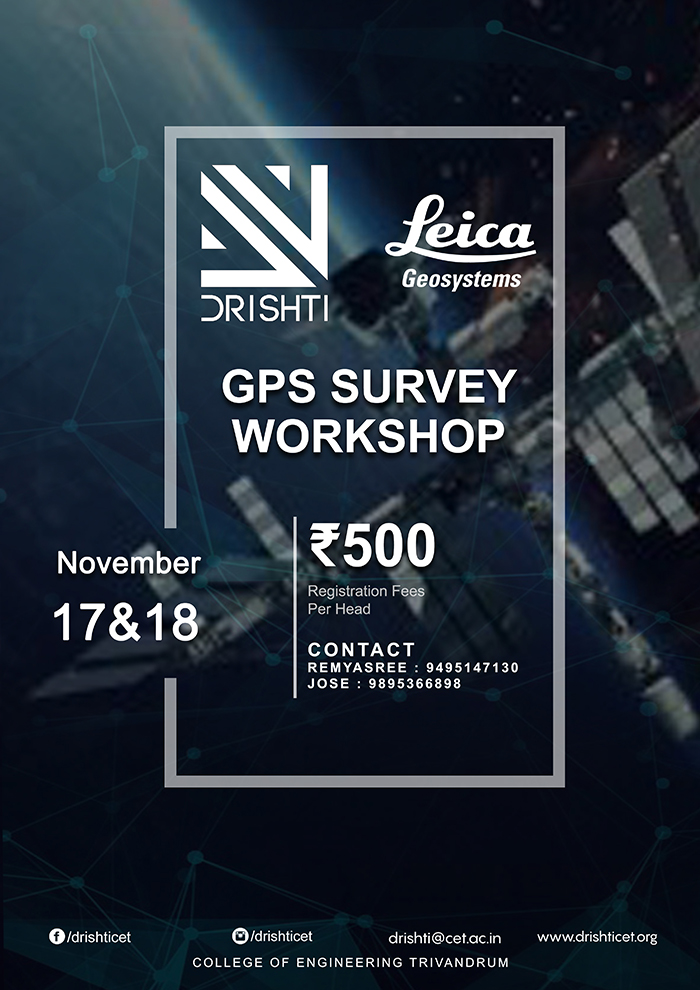
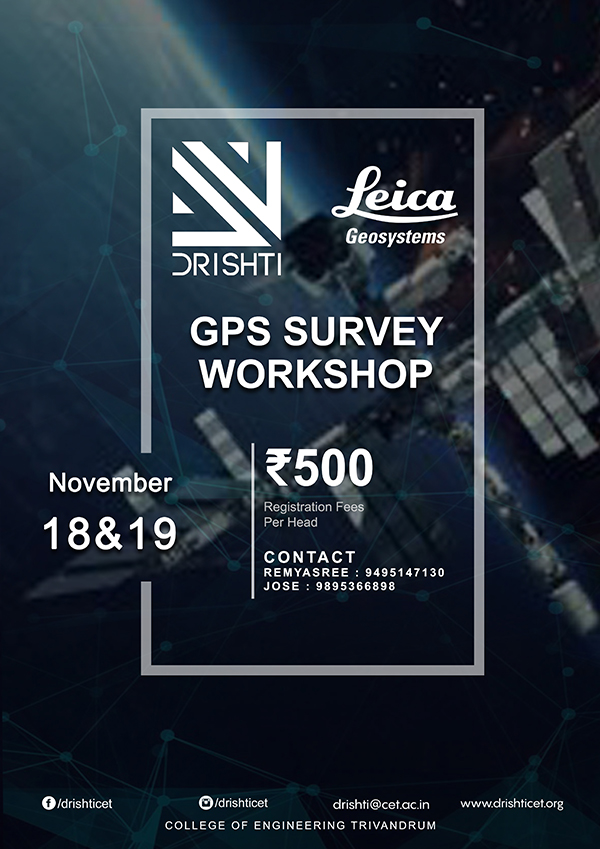
gps survey update

diff --git a/departments/civil.html b/departments/civil.html
@@ -243,7 +243,7 @@ Register at the link below
              </div>
              <div class="sm-12 md-6 lg-6 col align-middle" style="padding: 0;margin-top: 1vh;">
                <h3 style="margin:0;font-size: 1.4rem;">Date & Time</h3><br/>
-               <p style="margin:0">17 & 18 November 2018 <br/>
+               <p style="margin:0">18 & 19 November 2018 <br/>
                </p>
              </div>
               <div class="sm-12 md-6 lg-6 col align-middle" style="padding: 0;margin-top: 1vh;">
